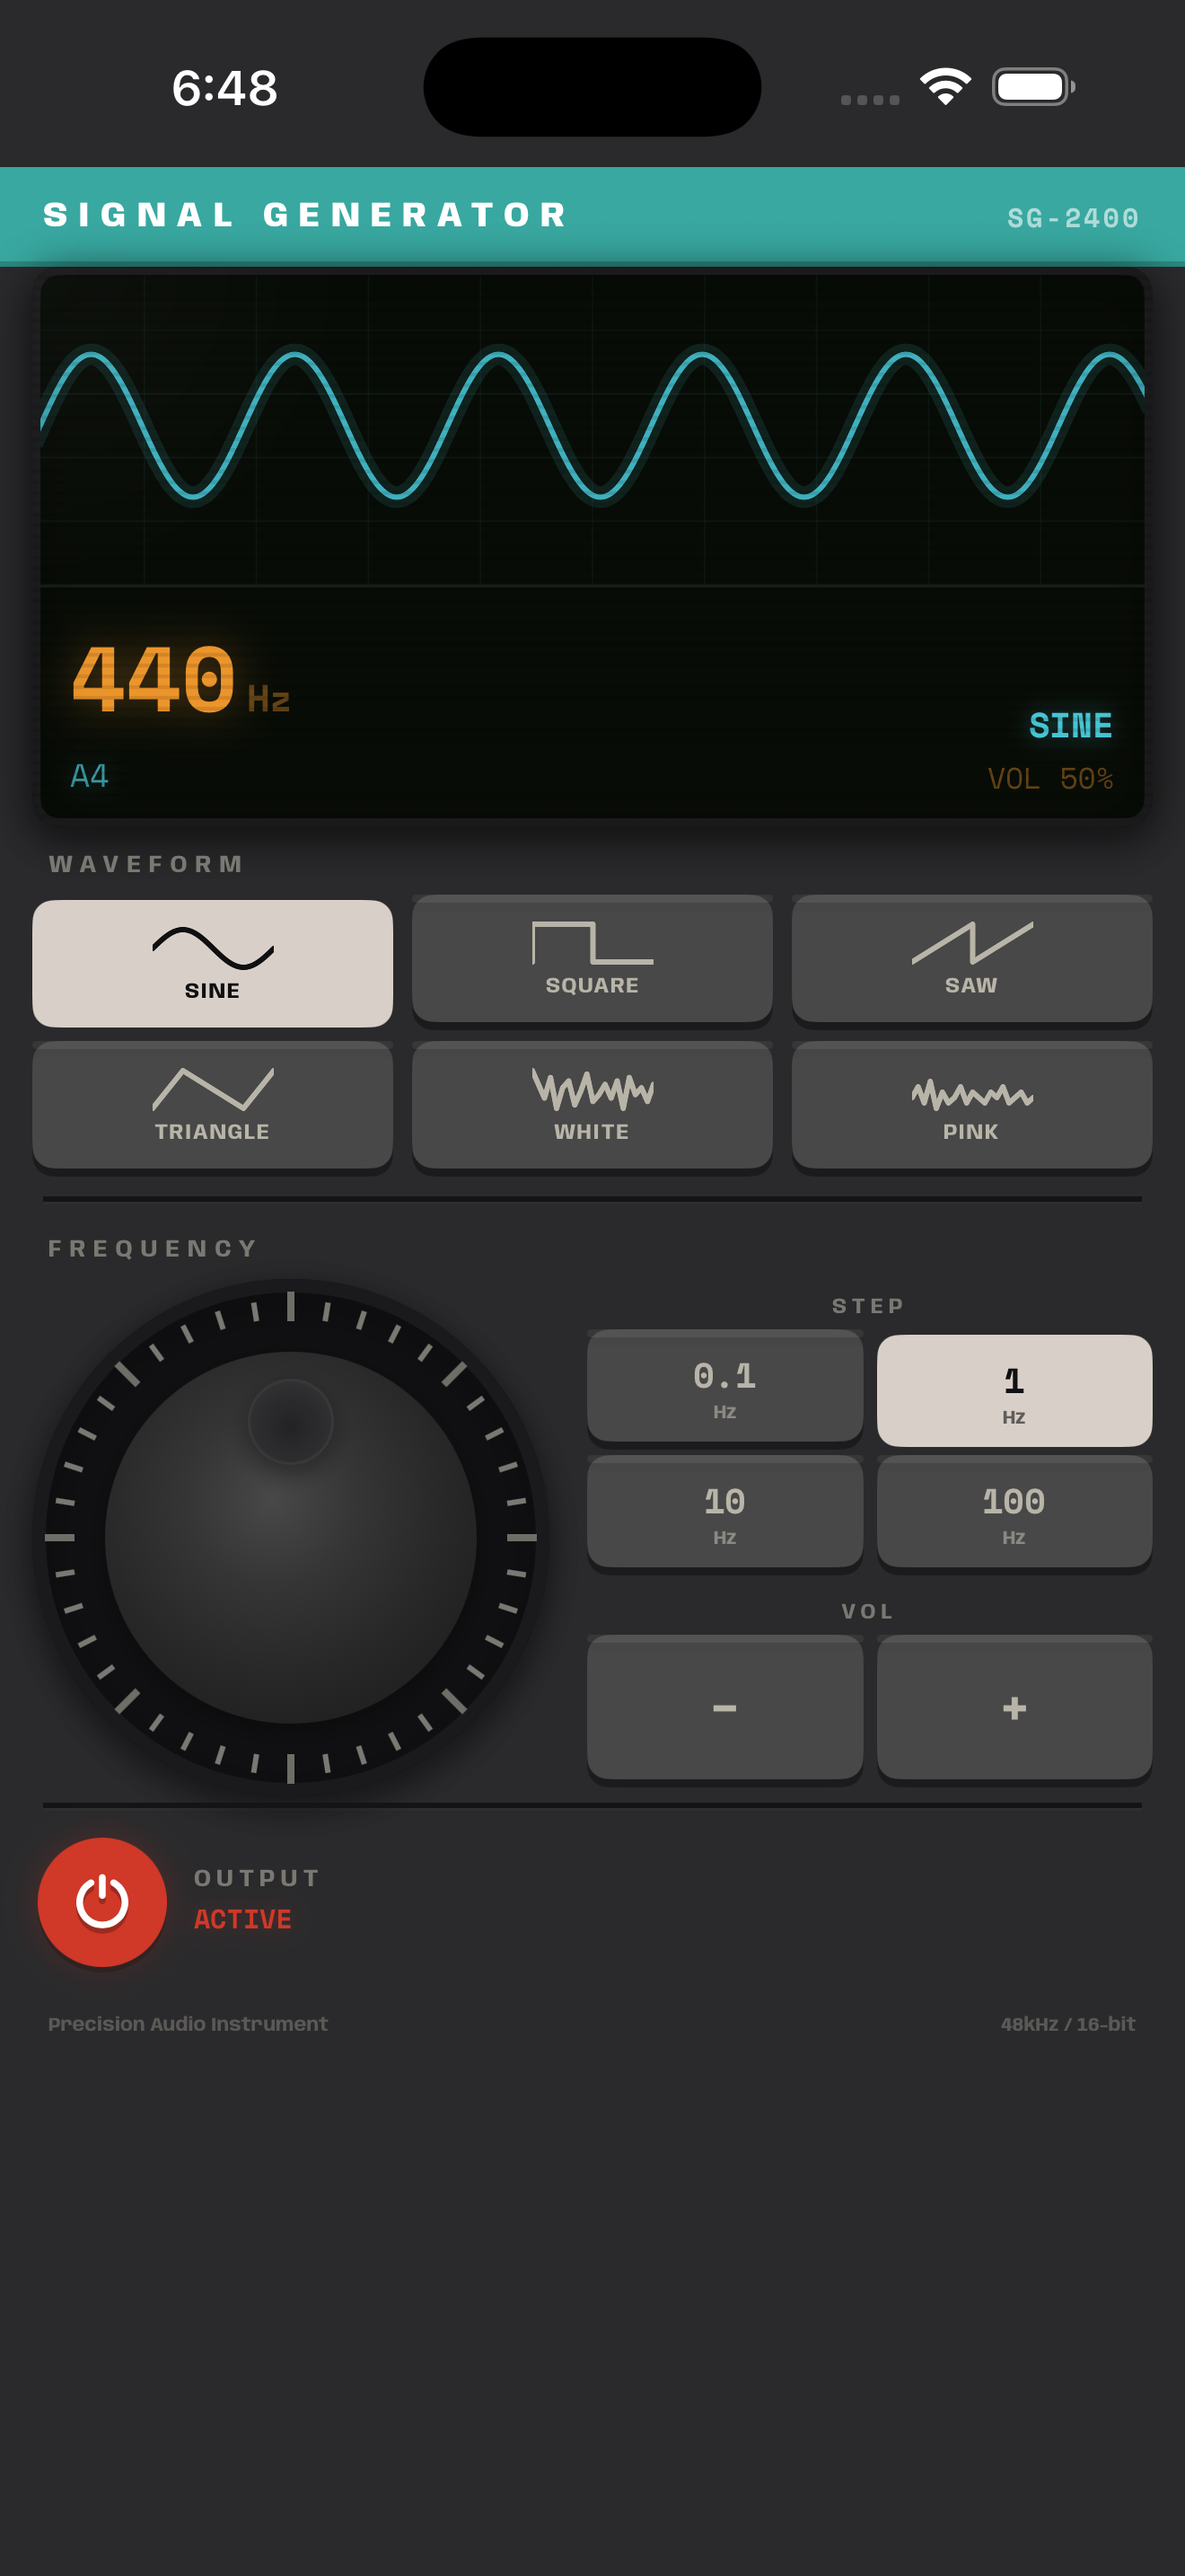
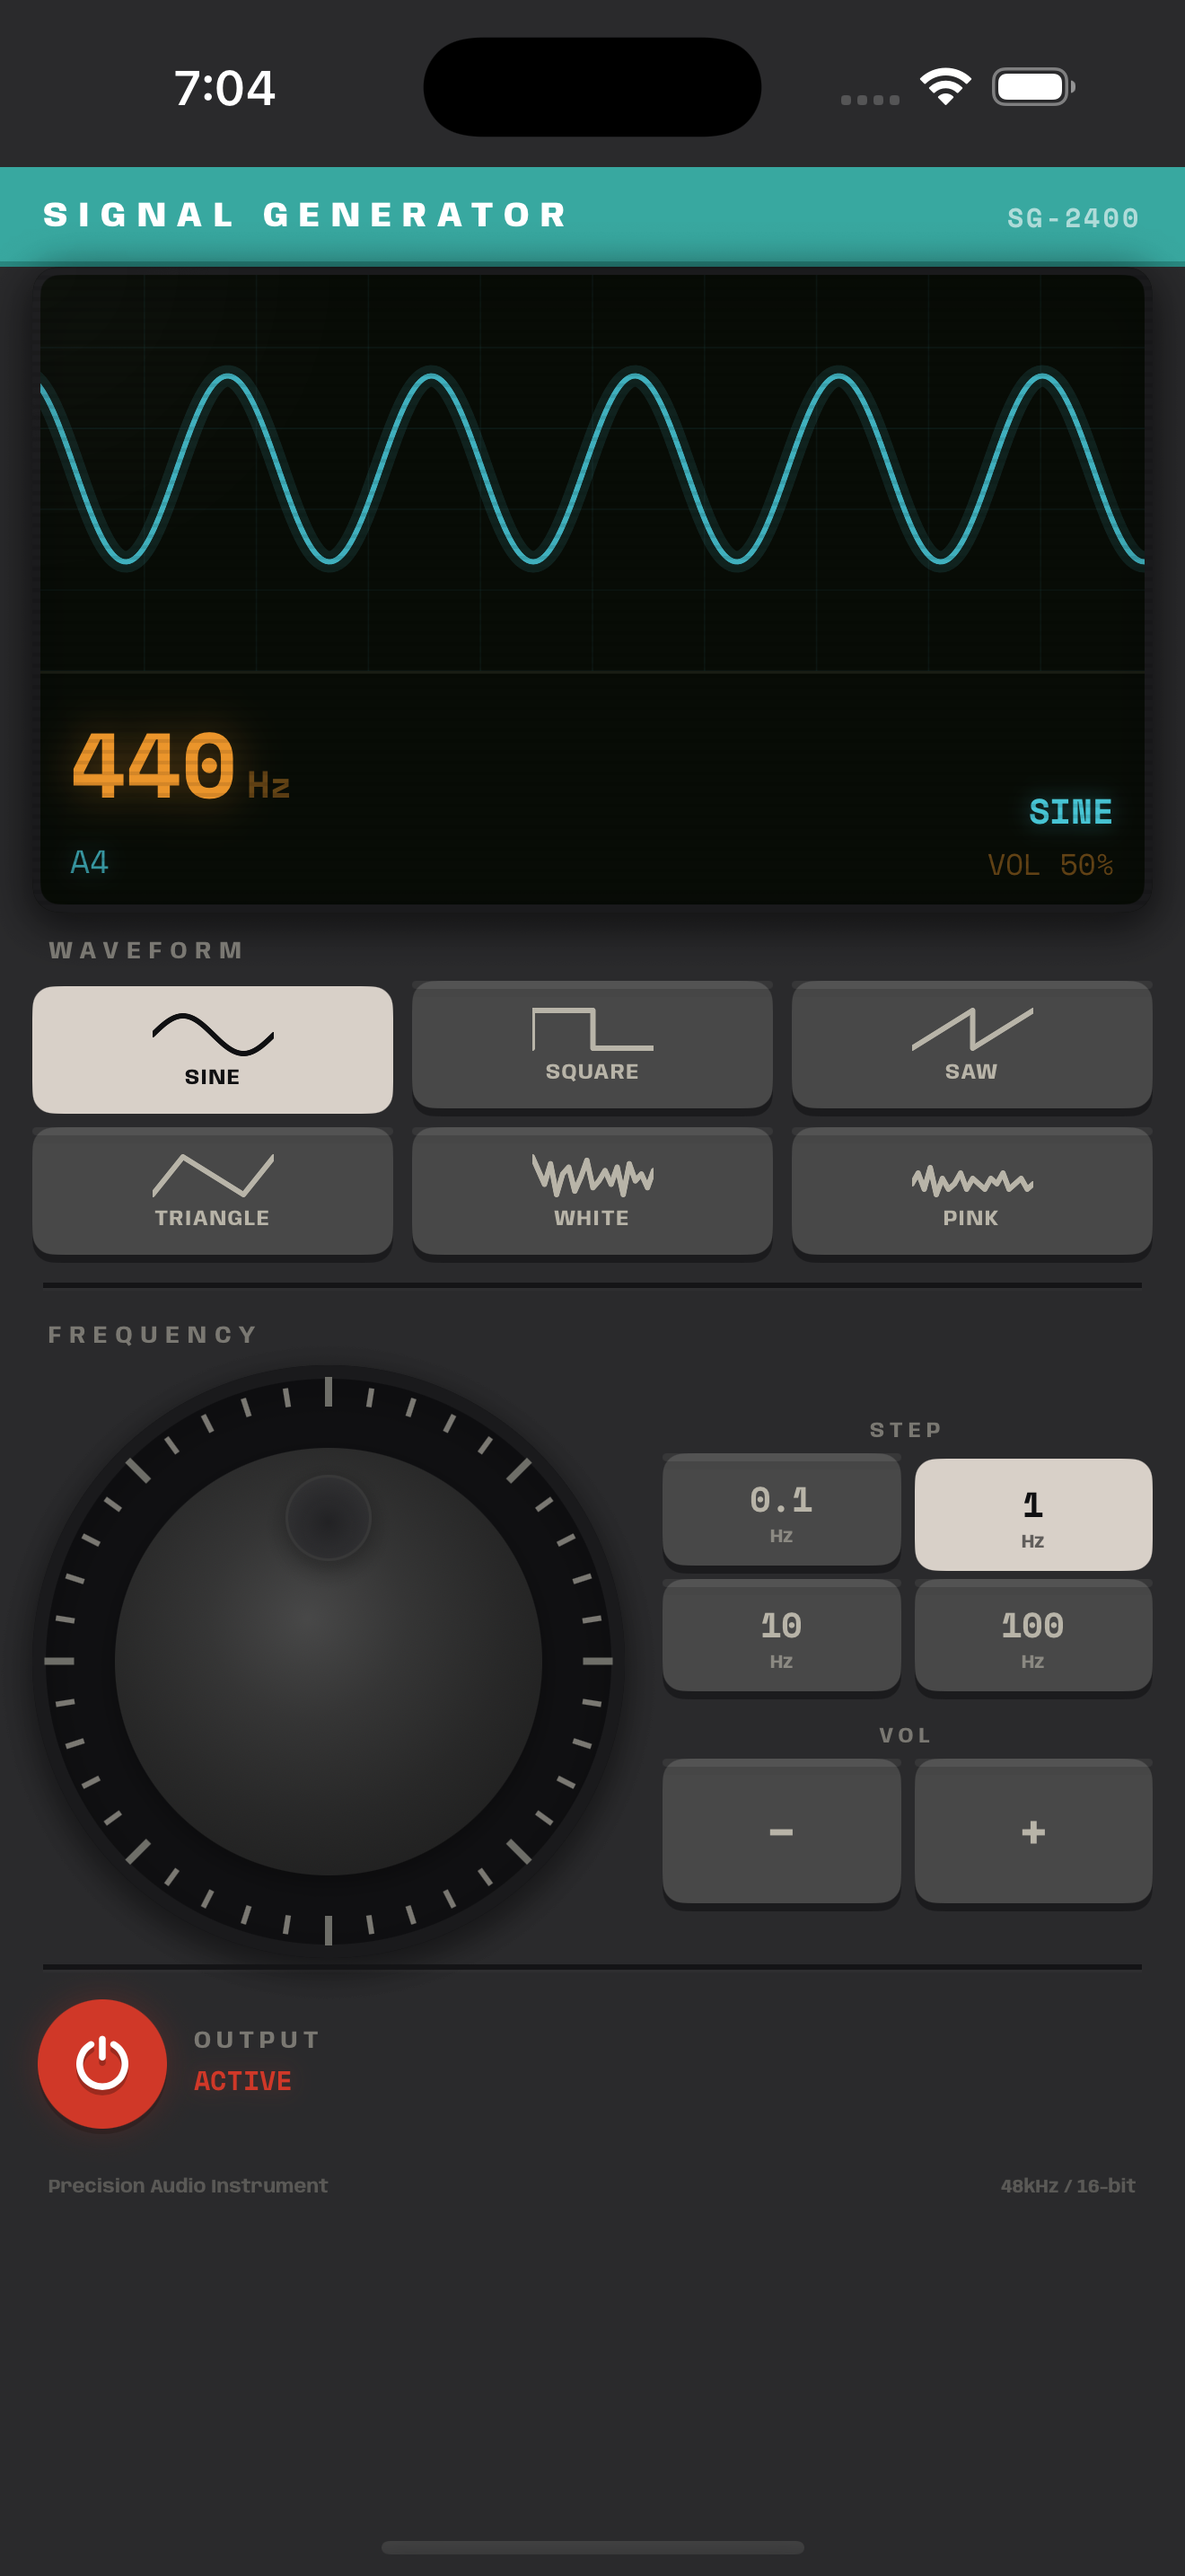
v1.0 — Larger display and jogwheel, click-free play/stop
- Increase CRT waveform canvas from 118pt to 150pt
- Increase jogwheel from 192pt to 220pt
- Replace 256-sample linear fade with 2048-sample cosine fade for
  click-free play/stop transitions
- Updated screenshots

diff --git a/SignalGenerator/Audio/AudioEngine.swift b/SignalGenerator/Audio/AudioEngine.swift
@@ -79,13 +79,16 @@ final class AudioEngine {
             return f * 2.0 - 1.0
         }
 
-        // Crossfade state for seamless waveform switching and play/stop
+        // Crossfade state for seamless waveform switching
         var prevWaveform: Int32 = 0
         var crossfadeRemaining: Int = 0
         let crossfadeSamples: Int = 256
+
+        // Fade in/out for play/stop (longer for click-free transitions)
         var wasPlaying: Bool = true
         var fadeInRemaining: Int = 0
         var fadeOutRemaining: Int = 0
+        let fadeSamples: Int = 2048  // ~43ms at 48kHz
 
         // PolyBLEP: smooths discontinuities in square/saw waves to eliminate aliasing.
         // `t` is the phase position, `dt` is the phase increment per sample.
@@ -115,10 +118,10 @@ final class AudioEngine {
 
             // Detect play/stop transitions for fade in/out
             if playing && !wasPlaying {
-                fadeInRemaining = crossfadeSamples
+                fadeInRemaining = fadeSamples
                 fadeOutRemaining = 0
             } else if !playing && wasPlaying {
-                fadeOutRemaining = crossfadeSamples
+                fadeOutRemaining = fadeSamples
             }
             wasPlaying = playing
 
@@ -186,14 +189,14 @@ final class AudioEngine {
                     crossfadeRemaining -= 1
                 }
 
-                // Apply fade in/out (play/stop)
+                // Apply fade in/out (play/stop) with cosine curve
                 if fadeInRemaining > 0 {
-                    let t = Double(fadeInRemaining) / Double(crossfadeSamples)
-                    sample *= (1.0 - t)
+                    let t = Double(fadeInRemaining) / Double(fadeSamples)
+                    sample *= 0.5 - 0.5 * cos(.pi * (1.0 - t))
                     fadeInRemaining -= 1
                 } else if fadeOutRemaining > 0 {
-                    let t = Double(fadeOutRemaining) / Double(crossfadeSamples)
-                    sample *= t
+                    let t = Double(fadeOutRemaining) / Double(fadeSamples)
+                    sample *= 0.5 - 0.5 * cos(.pi * t)
                     fadeOutRemaining -= 1
                 }
 

diff --git a/SignalGenerator/Views/ContentView.swift b/SignalGenerator/Views/ContentView.swift
@@ -51,7 +51,7 @@ struct ContentView: View {
                                     frequency: $state.frequency,
                                     stepIncrement: state.stepIncrement
                                 )
-                                .frame(width: 192, height: 192)
+                                .frame(width: 220, height: 220)
 
                                 VStack(spacing: 12) {
                                     StepButtonsView(stepIncrement: $state.stepIncrement)
@@ -62,7 +62,7 @@ struct ContentView: View {
                             .padding(.horizontal, 12)
                         }
                     }
-                    .frame(height: 222)
+                    .frame(height: 250)
 
                     // ── Groove ───────────────────────────────────────────
                     GrooveDivider()

diff --git a/SignalGenerator/Views/Display/DisplayView.swift b/SignalGenerator/Views/Display/DisplayView.swift
@@ -14,7 +14,7 @@ struct DisplayView: View {
                 volume: state.volume,
                 isPlaying: state.isPlaying
             )
-            .frame(height: 118)
+            .frame(height: 150)
 
             // Divider
             Rectangle()

diff --git a/CHANGELOG.md b/CHANGELOG.md
@@ -3,7 +3,8 @@
 ## v1.0
 
 - First App Store release
-- Restore "48kHz / 16-bit" footer text
+- Larger CRT display (150pt) and jogwheel (220pt) to fill screen
+- Click-free play/stop with 2048-sample cosine fade (~43ms)
 - Updated screenshots
 
 ## v0.7.1
